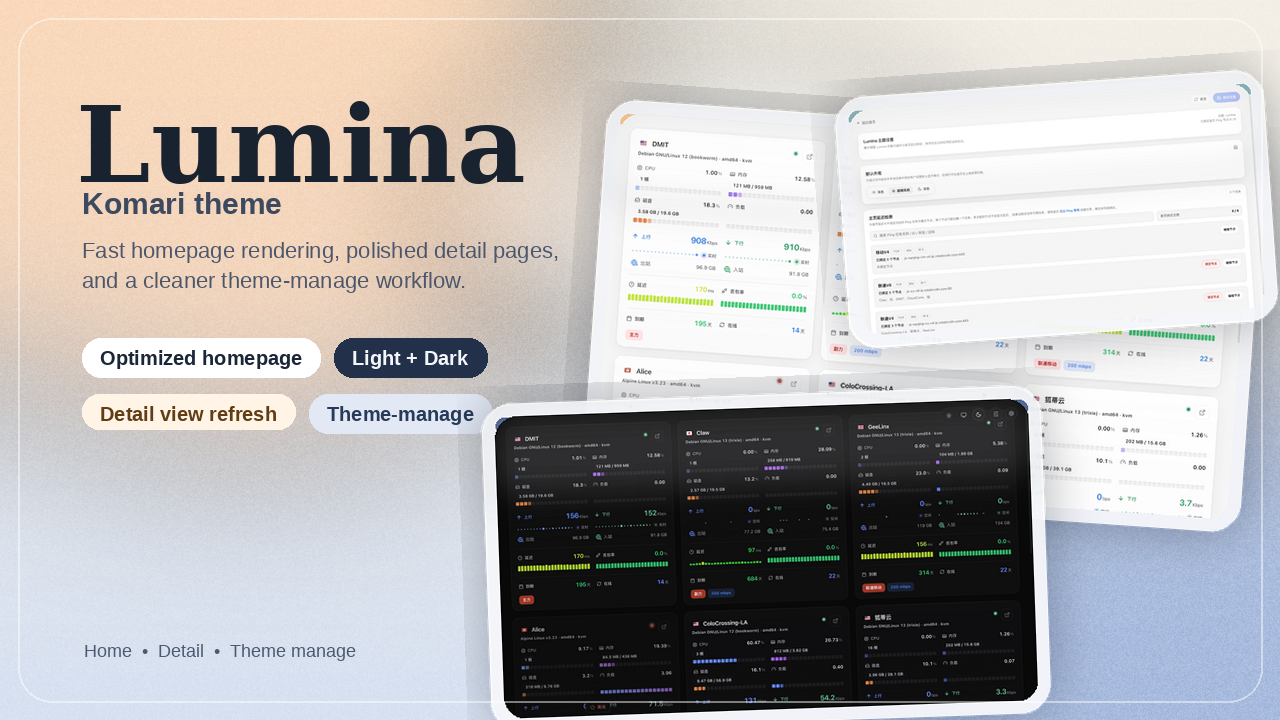
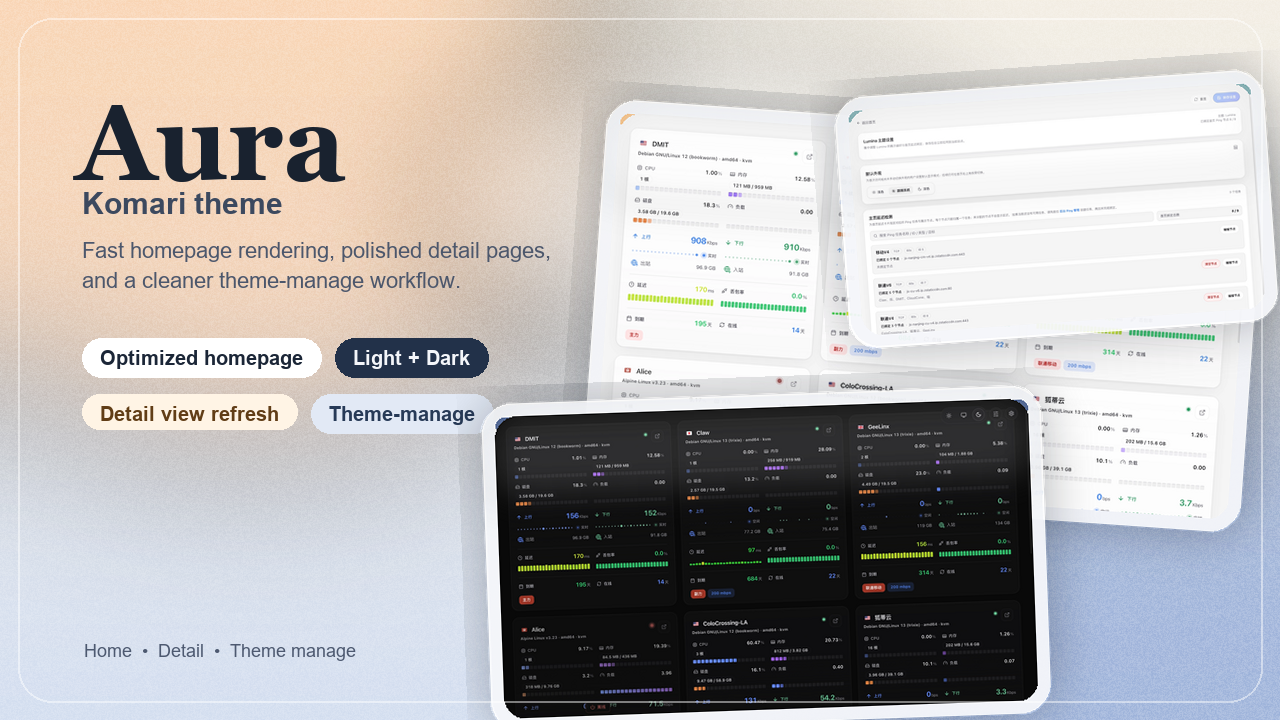
Update author and preview image

diff --git a/scripts/make-preview.py b/scripts/make-preview.py
@@ -11,9 +11,9 @@ OUT_PATH = ROOT / "preview.png"
 WIDTH = 1280
 HEIGHT = 720
 
-TITLE_FONT = "/usr/share/fonts/truetype/dejavu/DejaVuSerif-Bold.ttf"
-BODY_FONT = "/usr/share/fonts/truetype/liberation/LiberationSans-Regular.ttf"
-BODY_BOLD_FONT = "/usr/share/fonts/truetype/liberation/LiberationSans-Bold.ttf"
+TITLE_FONT = "C:/Windows/Fonts/georgiab.ttf"
+BODY_FONT = "C:/Windows/Fonts/arial.ttf"
+BODY_BOLD_FONT = "C:/Windows/Fonts/arialbd.ttf"
 
 
 def vertical_gradient(size, top, bottom):